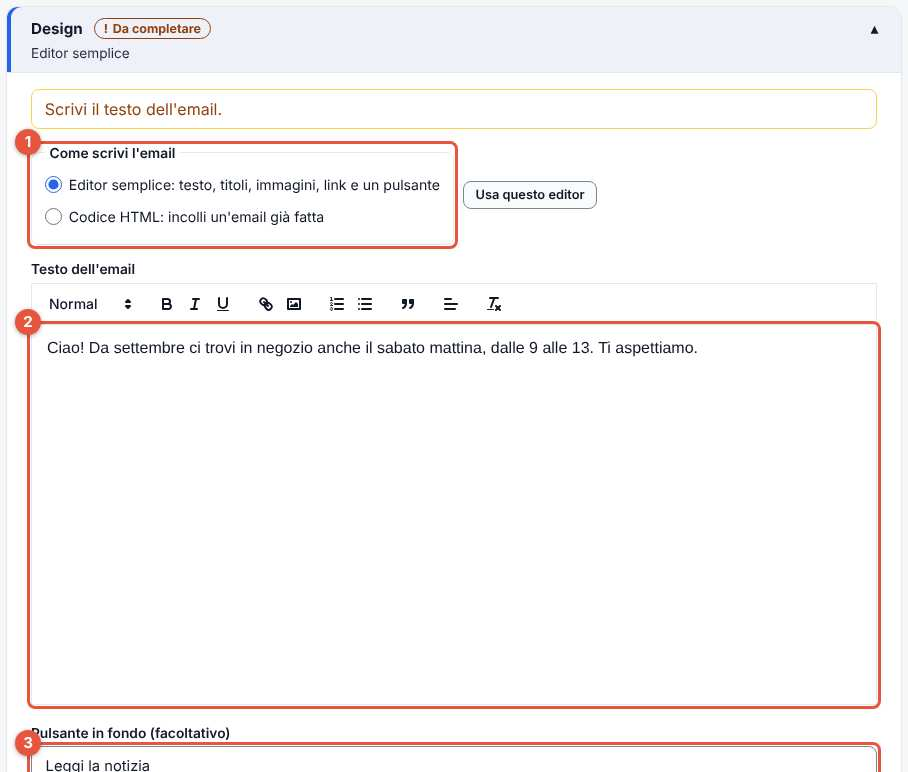
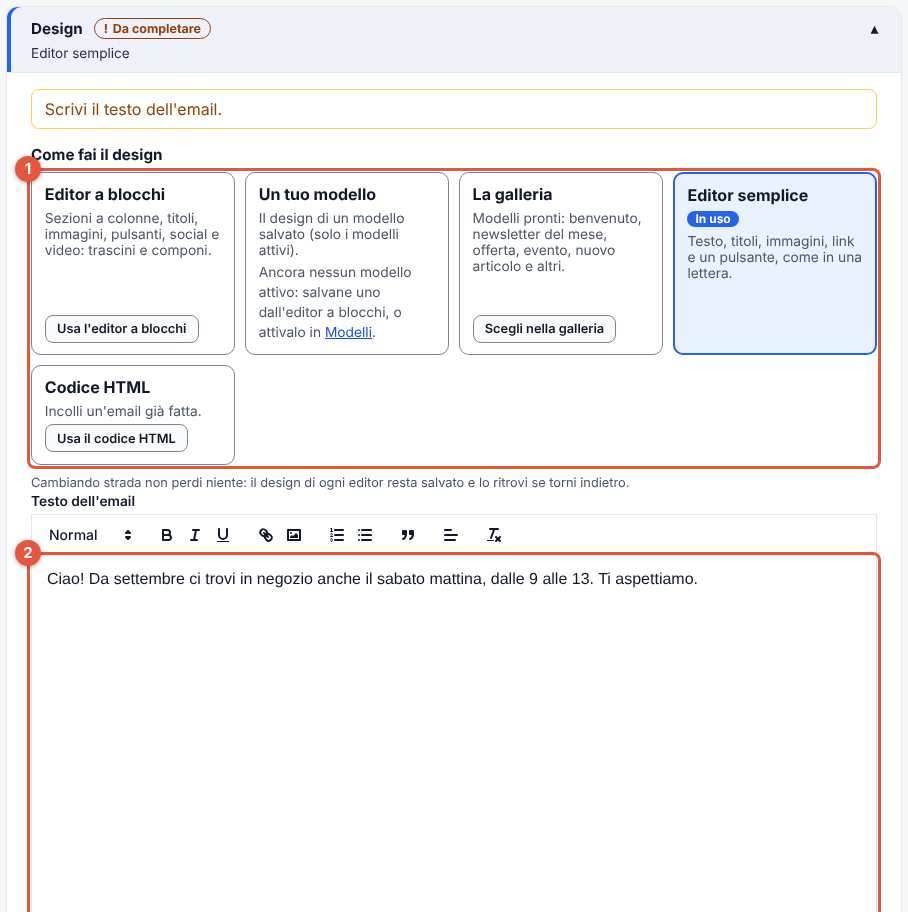
2.12.0 (in corso): niente modelli di conferma fra quelli delle campagne, foto del manuale del capitolo della newsletter rifatte
Claude-Session: https://claude.ai/code/session_01Ddnix1ocLSpj3D8QhkAFuA

diff --git a/tools/manuale-uso-schermate.js b/tools/manuale-uso-schermate.js
@@ -684,7 +684,7 @@ capitoli['19'] = async () => {
   await p.fill('[name=pulsante_testo]', 'Leggi la notizia');
   await p.fill('[name=pulsante_link]', B + '/aperti-il-sabato/');
   // 2.12.0: le cinque strade del design sono riquadri con il loro pulsante; l'editor semplice è quello in uso.
-  await foto('19-design', { sel: '#sez-design', margine: 6, altezza: 900, segni: [{ sel: '#sez-design .nd-strade', n: 1 }, { sel: '#editor', n: 2 }, { sel: '#pulsante_testo', n: 3 }] });
+  await foto('19-design', { sel: '#sez-design', margine: 6, altezza: 1180, segni: [{ sel: '#sez-design .nd-strade', n: 1 }, { sel: '#editor', n: 2 }, { sel: '#pulsante_testo', n: 3 }] });
   await Promise.all([p.waitForNavigation(), p.click('#nl-form button[type=submit]')]);
   await vai('newsletter-flussi.php?nuovo=1');
   await foto('19-flussi', { clip: { x: 240, y: 56, width: 960, height: 600 } });

diff --git a/cms/admin/newsletter-campagna.php b/cms/admin/newsletter-campagna.php
@@ -44,7 +44,7 @@ if ($_SERVER['REQUEST_METHOD'] === 'POST') {
             break;
         case 'usa_modello':
             $m = nd_modello((int)($_POST['modello_id'] ?? 0));
-            $e = $m && (int)$m['attivo'] ? nd_campagna_da_modello($id, $m) : 'Scegli un modello attivo.';
+            $e = $m && (int)$m['attivo'] && $m['tag'] !== 'optin' ? nd_campagna_da_modello($id, $m) : 'Scegli un modello attivo.';
             if ($e !== '') { flash('error', $e); $vai = '&apri=design#sez-design'; break; }
             flash('success', 'Design preso dal modello «' . newsletter_4byte_fuori((string)$m['nome']) . '».');
             if ($m['editor'] === 'blocchi') { header('Location: newsletter-design.php?campagna=' . $id); exit; }
@@ -132,7 +132,7 @@ $mittentiScelta = consegna_mittenti_scelta();
 $nomeC = newsletter_4byte_fuori((string)($c['nome'] !== '' ? $c['nome'] : $c['oggetto'])) ?: 'Campagna senza nome';
 $madre = (int)$c['rinvio_di'] ? newsletter_campagna((int)$c['rinvio_di']) : ((int)$c['padre_id'] ? newsletter_campagna((int)$c['padre_id']) : null);
 $dis = $modificabile ? '' : ' disabled';
-$modelliAttivi = nd_modelli(true);
+$modelliAttivi = array_values(array_filter(nd_modelli(true), fn($m) => $m['tag'] !== 'optin')); // l'email di conferma non è una campagna
 $modelloUsato = (int)($c['modello_id'] ?? 0) ? nd_modello((int)$c['modello_id']) : null;
 $adminTitle = 'Campagna: ' . $nomeC;
 
